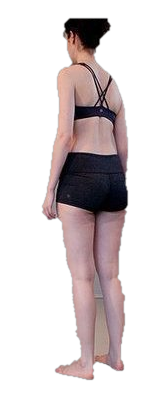
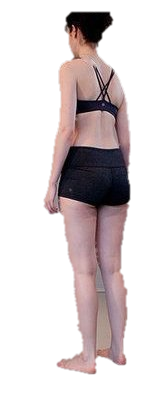
Athlete 360 viewer: fix see-through/ghosting — opaque cutout + hard-swap
Fixes the faded/double/transparent look (esp. legs) when rotating the photo
360 viewer.

- Cutout (scripts/cutout-360.py): after cleanup, hole-fill the final mask so the
  body is FULLY OPAQUE (no see-through gaps), and inpaint small dark specks/bites
  left on the legs. Interior is now 100% opaque (validated); only a ~1px edge is
  softened. Reusable pipeline unchanged in shape.
- Re-cut Rani's 12 frames from the raw _src studio shots -> re-stabilized served
  frames (center + feet-baseline; positions identical to before, so hotspots are
  unchanged — no DB change).
- Viewer default is now HARD-SWAP (VIEWER_360.crossfade=false): with only 12
  frames (30 deg apart) crossfade doubled/ghosted; hard-swap shows one crisp
  frame per step. Crossfade stays as a config option for when frames are dense.

View + frame assets only. No change to athlete data, prices, zones, other pages,
or the 3D viewer (still behind ?v=3d).

Claude-Session: https://claude.ai/code/session_0176fNLoyiYQNQWZFWJrYo36

Changed region(s): [[0.2381, 0.0304, 0.8036, 0.9722], [0.3274, 0.1823, 0.3869, 0.3646]]

diff --git a/lib/config.ts b/lib/config.ts
@@ -133,10 +133,11 @@ export const VIEWER_360 = {
   /** Rendered position snaps to target once within this many frames (ends the loop). */
   settleEpsilon: 0.002,
   /**
-   * Blend the two nearest frames by the fractional position (smooths rotation).
-   * With aligned frames this reads as rotation; set false for a crisp hard-swap.
+   * Blend the two nearest frames by the fractional position. With only 12 frames
+   * (30° apart) this ghosts/doubles, so the default is a crisp HARD-SWAP; turn
+   * on only once frames are dense/clean enough that blending helps.
    */
-  crossfade: true,
+  crossfade: false,
   /**
    * When motion stops, ease onto the nearest frame (a soft detent) so the figure
    * rests on one crisp frame instead of a blended half-frame.

diff --git a/scripts/cutout-360.py b/scripts/cutout-360.py
@@ -89,7 +89,27 @@ def cutout(bgr: np.ndarray, args) -> np.ndarray:
         biggest = 1 + int(np.argmax(stats[1:, cv2.CC_STAT_AREA]))
         fg = np.where(lbl == biggest, 255, 0).astype(np.uint8)
 
-    # Pull the edge in 1px (kill grey halo), then feather for a smooth alpha.
+    # 4b) Final hole-fill on the CLEANED mask so the body is fully opaque — no
+    #     see-through gaps left inside the silhouette (the "tembus pandang" bug).
+    ff = (255 - fg).copy()
+    ffmask = np.zeros((h + 2, w + 2), np.uint8)
+    cv2.floodFill(ff, ffmask, (0, 0), 0)
+    fg[ff > 0] = 255
+
+    # 4c) Inpaint small dark specks/bites left on the body (low-res cut-out noise
+    #     & retained shadow on the legs) so they don't read as dirt on the stage.
+    gray = cv2.cvtColor(bgr, cv2.COLOR_BGR2GRAY)
+    dark = ((gray < args.speck_dark) & (fg > 0)).astype(np.uint8)
+    nc, dl, ds, _ = cv2.connectedComponentsWithStats(dark, 8)
+    speck = np.zeros_like(dark)
+    for c in range(1, nc):
+        if ds[c, cv2.CC_STAT_AREA] <= args.speck_area:
+            speck[dl == c] = 255
+    if speck.any():
+        bgr = cv2.inpaint(bgr, cv2.dilate(speck, k, iterations=1), 3, cv2.INPAINT_TELEA)
+
+    # Pull the edge in 1px (kill grey halo); interior stays fully opaque, only a
+    # ~1px edge is softened so there is no partial-transparency across the body.
     fg = cv2.erode(fg, k, iterations=1)
     alpha = cv2.GaussianBlur(fg, (3, 3), 0)
 
@@ -107,6 +127,8 @@ def main() -> int:
     ap.add_argument("--iters", type=int, default=6, help="GrabCut iterations.")
     ap.add_argument("--bg-dist", type=float, default=28.0, help="Lab distance under which a pixel counts as backdrop.")
     ap.add_argument("--bg-sat", type=int, default=48, help="Max HSV saturation for a backdrop pixel.")
+    ap.add_argument("--speck-dark", type=int, default=60, help="Luminance below which a body pixel is a dark speck.")
+    ap.add_argument("--speck-area", type=int, default=70, help="Max area (px) of a dark speck to inpaint.")
     args = ap.parse_args()
 
     from PIL import Image  # local import: only needed for the alpha PNG save
